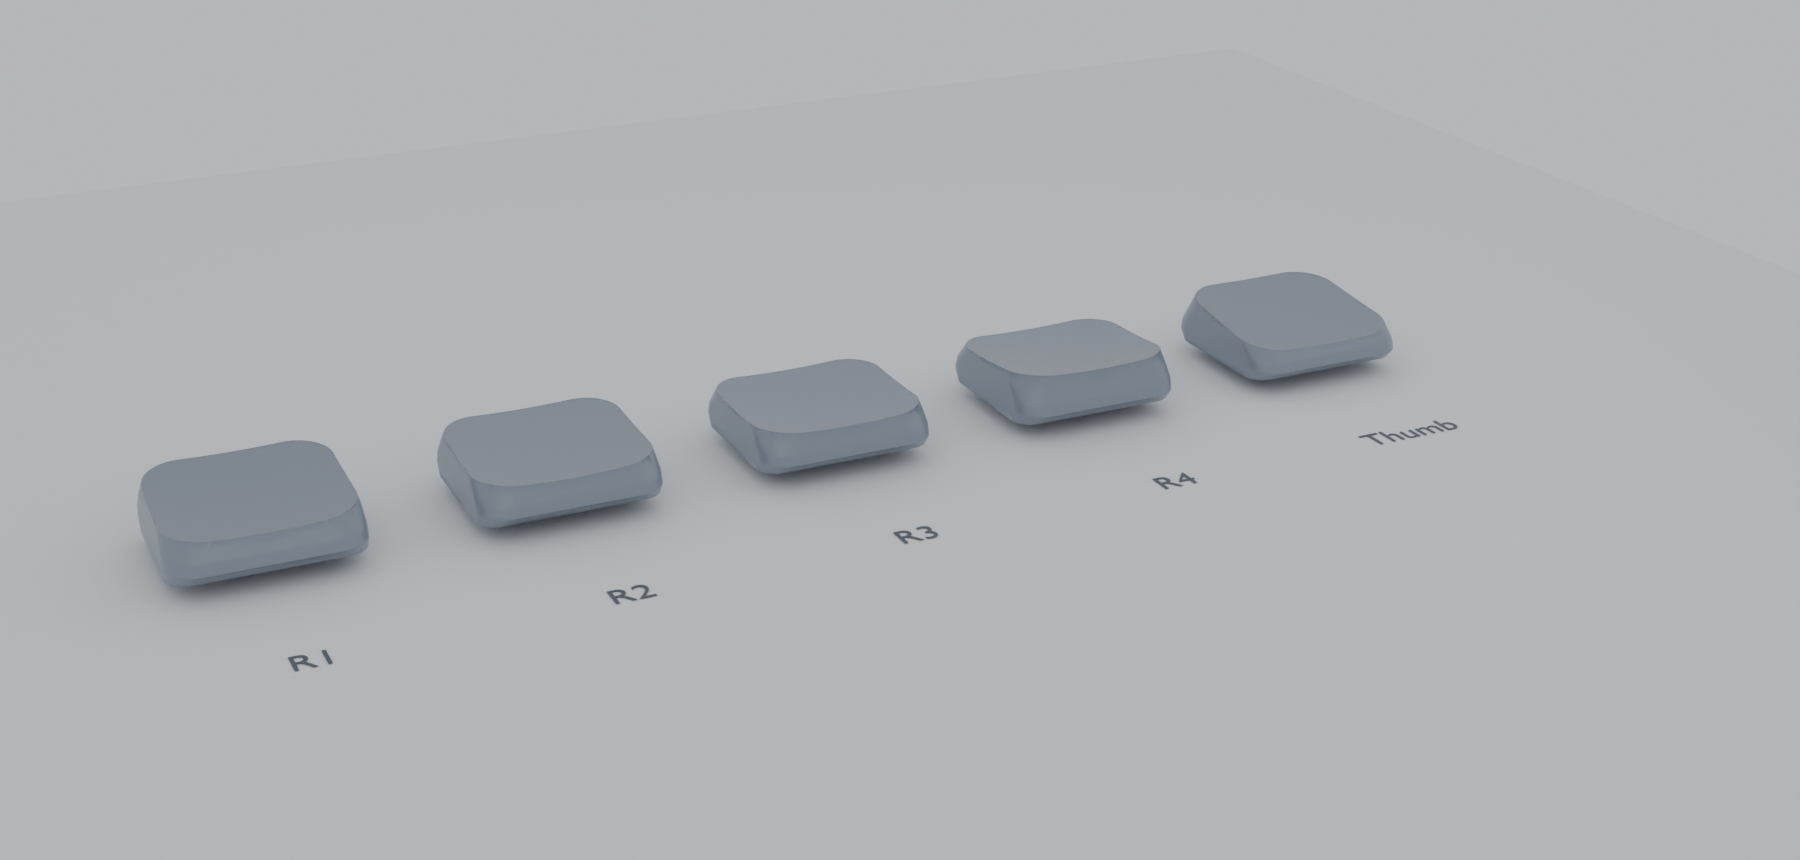
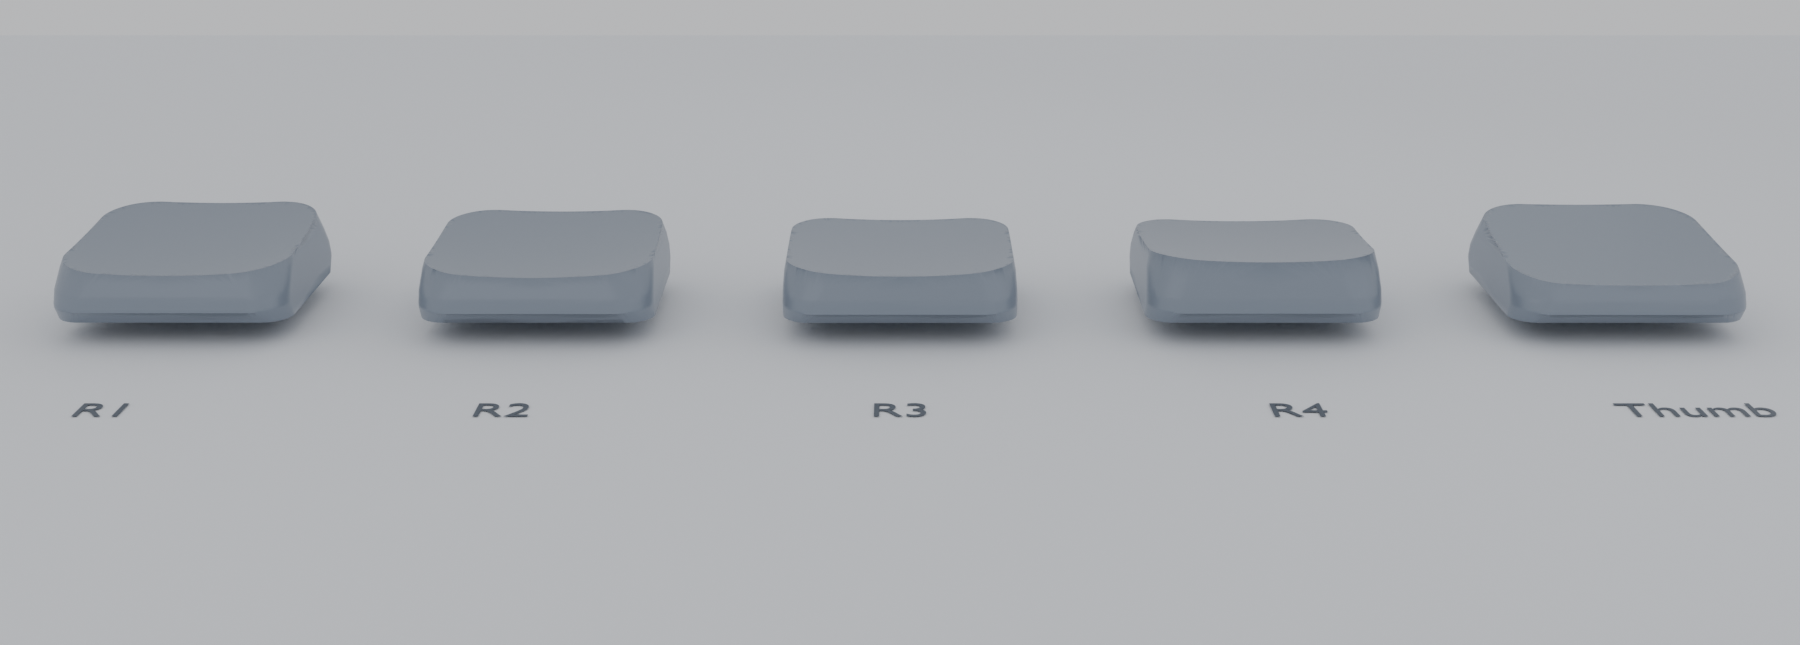
Adjust README render framing

diff --git a/scripts/blender_readme_mx_spacing_overview.py b/scripts/blender_readme_mx_spacing_overview.py
@@ -17,6 +17,12 @@ SURFACE_Z_OFFSET = 0.45
 MAIN_ROW_Y = 6.0
 MAIN_LABEL_Y = -13.5
 MAIN_Z_ROTATION_DEG = 180.0
+OVERVIEW_CAMERA_LENS = 44
+DETAIL_CAMERA_LENS = 46
+README_CAMERA_LOCATION = (0, -138, 46)
+README_CAMERA_TARGET = (0, -2, 4)
+README_CROP_MIN_Y = 0.09
+README_CROP_MAX_Y = 0.84
 DETAIL_X_POSITIONS = (-36.0, 0.0, 36.0)
 DETAIL_OBJECT_Y = 0.0
 DETAIL_LABEL_Y = -16.5
@@ -178,6 +184,12 @@ def configure_scene(args: argparse.Namespace) -> tuple[bpy.types.Scene, bpy.type
     scene.render.resolution_percentage = 100
     scene.render.image_settings.file_format = "PNG"
     scene.render.filepath = str(args.output)
+    scene.render.use_border = True
+    scene.render.use_crop_to_border = True
+    scene.render.border_min_x = 0.0
+    scene.render.border_max_x = 1.0
+    scene.render.border_min_y = README_CROP_MIN_Y
+    scene.render.border_max_y = README_CROP_MAX_Y
 
     world = bpy.data.worlds.new("OverviewWorld")
     world.use_nodes = True
@@ -210,15 +222,11 @@ def configure_scene(args: argparse.Namespace) -> tuple[bpy.types.Scene, bpy.type
 
     camera_data = bpy.data.cameras.new("OverviewCamera")
     camera_data.type = "PERSP"
-    camera_data.lens = 48 if args.scene == "overview" else 46
+    camera_data.lens = OVERVIEW_CAMERA_LENS if args.scene == "overview" else DETAIL_CAMERA_LENS
     camera = bpy.data.objects.new("OverviewCamera", camera_data)
     scene.collection.objects.link(camera)
-    if args.scene == "overview":
-        camera.location = (-76, -168, 82)
-        orient_towards(camera, (4, -2, 4))
-    else:
-        camera.location = (0, -138, 46)
-        orient_towards(camera, (0, -2, 4))
+    camera.location = README_CAMERA_LOCATION
+    orient_towards(camera, README_CAMERA_TARGET)
     scene.camera = camera
 
     for name, location, energy, size, color in (
@@ -288,9 +296,9 @@ def build_detail_scene(
         smooth_mesh(obj)
         assign_material(obj, keycap_material)
         if flipped:
-            set_rotation(obj, x_deg=180.0, z_deg=DETAIL_Z_ROTATION_DEG)
+            set_rotation(obj, x_deg=180.0, z_deg=MAIN_Z_ROTATION_DEG)
         else:
-            set_rotation(obj, z_deg=DETAIL_Z_ROTATION_DEG)
+            set_rotation(obj, z_deg=MAIN_Z_ROTATION_DEG)
         center_object(obj, DETAIL_X_POSITIONS[index], DETAIL_OBJECT_Y, SURFACE_Z_OFFSET)
 
         add_flat_text(
